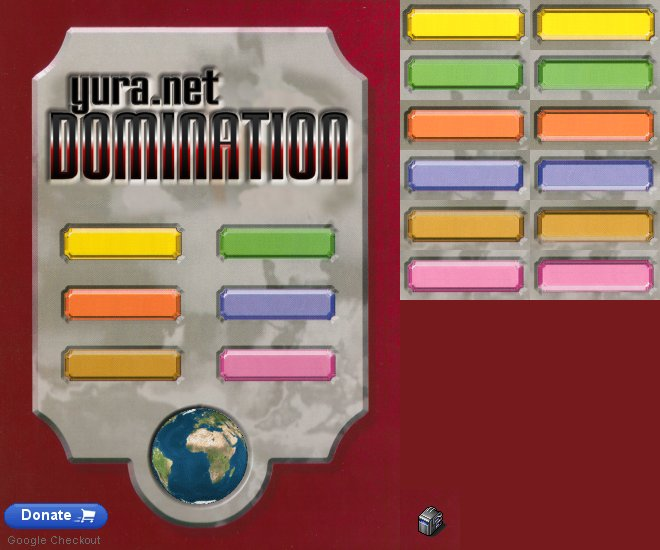
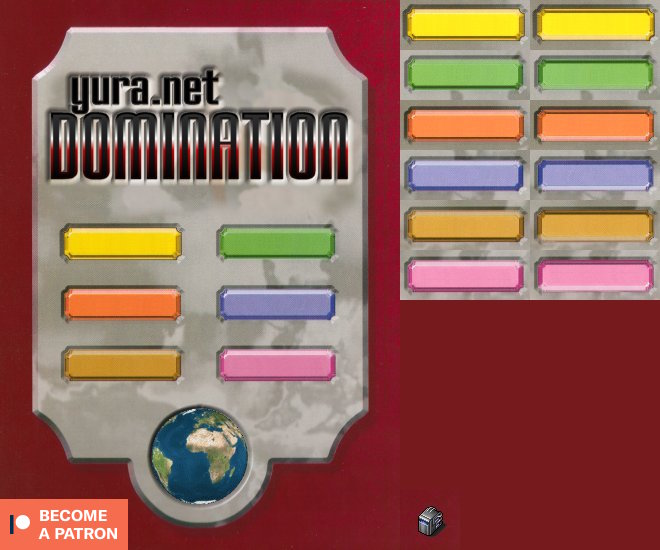
donate button fixed

Changed region(s): [[0.0, 0.8964, 0.2121, 1.0]]

diff --git a/src_swing/net/yura/domination/ui/swinggui/GameTab.java b/src_swing/net/yura/domination/ui/swinggui/GameTab.java
@@ -163,7 +163,7 @@ public class GameTab extends JPanel implements SwingGUITab, ActionListener {
 		donate.addActionListener( this );
 		donate.setActionCommand("donate");
                 donate.setCursor(Cursor.getPredefinedCursor(Cursor.HAND_CURSOR));
-                URL donateNow = this.getClass().getResource("donateNow.gif");
+                URL donateNow = this.getClass().getResource("donate.png");
                 if (donateNow!=null) {
                      donate.setIcon( new ImageIcon( donateNow ) );
                 }

diff --git a/src_swing/net/yura/domination/ui/flashgui/MainMenu.java b/src_swing/net/yura/domination/ui/flashgui/MainMenu.java
@@ -489,7 +489,7 @@ public class MainMenu extends JPanel implements MouseInputListener, KeyListener 
 		if (GraphicsUtil.insideButton(x, y, 220, 350, W, H)) {
 			return BUTTON_ABOUT;
 		}
-		if (GraphicsUtil.insideButton(x, y, 0, 500, 115, 50)) { // google: 115px x 50px
+		if (GraphicsUtil.insideButton(x, y, 0, 500, 130, 50)) {
 			return BUTTON_DONATE;
 		}
                 // check if we are in the circle lobby button
